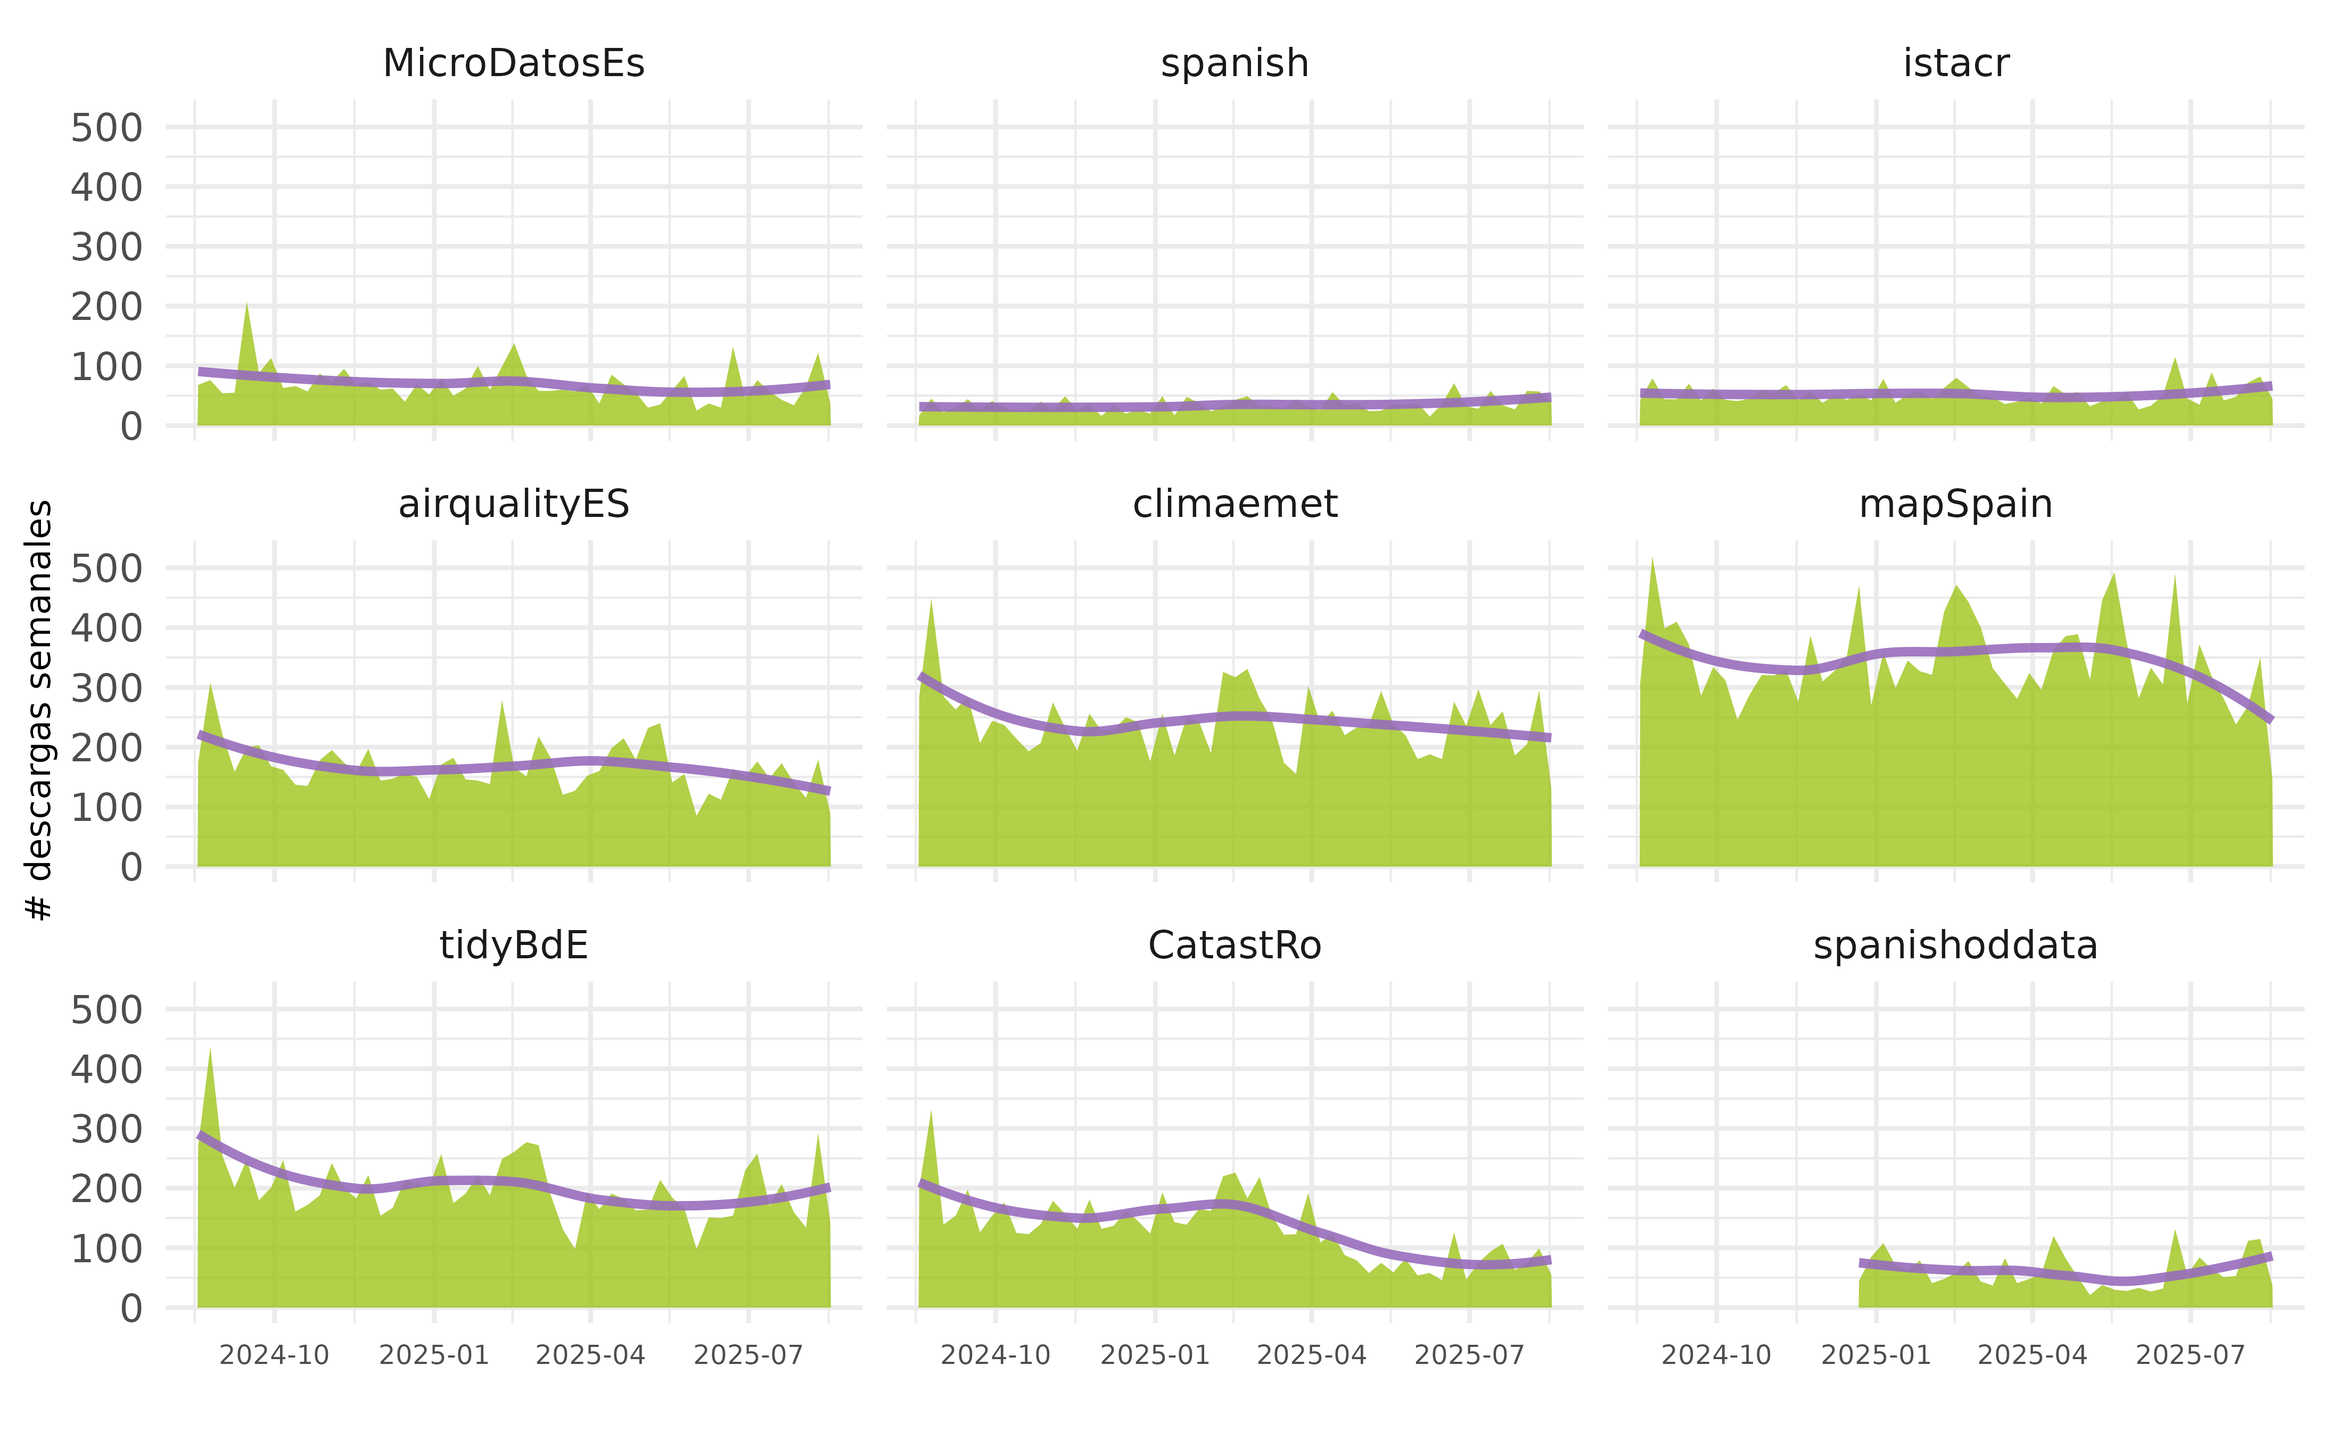
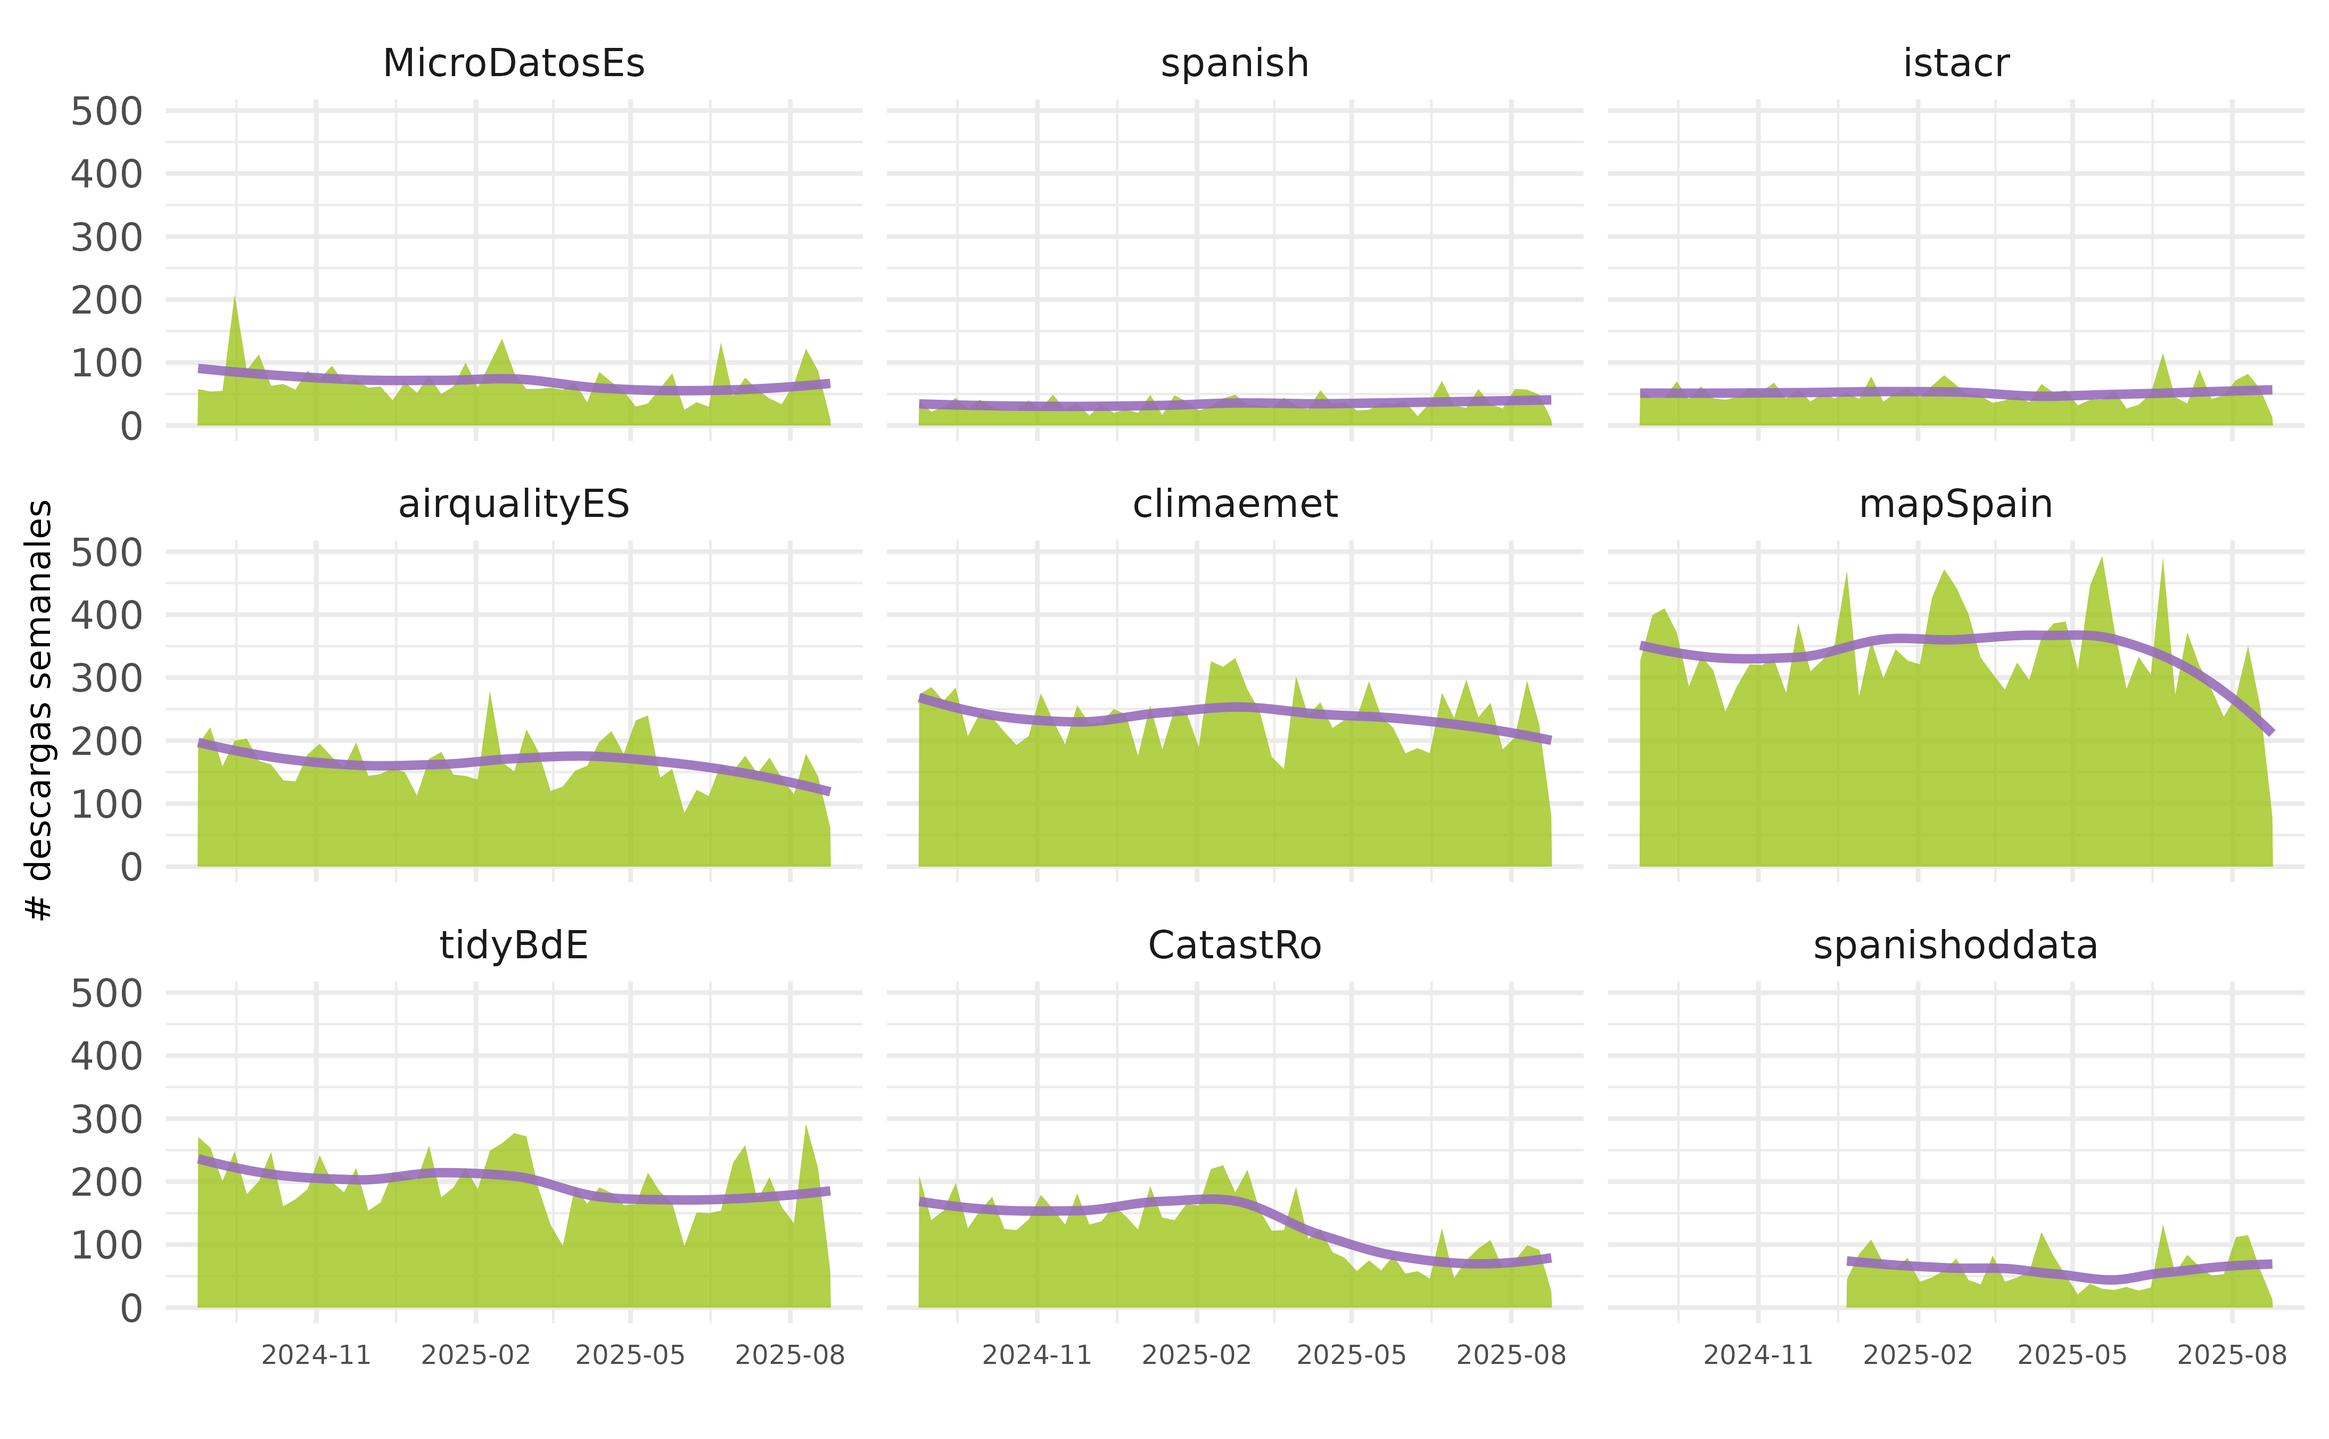
Built site for rostemplate@0.2.0.9000: 9af3454

diff --git a/articles/descargas.html b/articles/descargas.html
@@ -78,7 +78,7 @@
 
     
     
-<p><em>Fecha de actualización: 14 Aug 2025</em></p>
+<p><em>Fecha de actualización: 21 Aug 2025</em></p>
 <div class="section level2">
 <h2 id="en-cran">En CRAN<a class="anchor" aria-label="anchor" href="#en-cran"></a>
 </h2>
@@ -97,7 +97,7 @@
 <h3 id="datos-sobre-descargas">Datos sobre descargas<a class="anchor" aria-label="anchor" href="#datos-sobre-descargas"></a>
 </h3>
 <div class="reactable html-widget html-fill-item" id="cran-dwn" style="width:auto;height:auto;"></div>
-<script type="application/json" data-for="cran-dwn">{"x":{"tag":{"name":"Reactable","attribs":{"data":{"paquete":["mapSpain","climaemet","tidyBdE","airqualityES","CatastRo","MicroDatosEs","istacr","spanish","spanishoddata"],"en CRAN desde":["2020-11-30","2020-07-07","2021-04-08","2020-02-29","2022-02-28","2013-10-22","2019-05-03","2018-01-08","2024-12-18"],"Versión en CRAN":["2024-12-15","2025-06-25","2025-06-22","2020-02-29","2025-03-24","2023-11-24","2022-12-20","2019-05-10","2025-07-29"],"media diaria":[35.2,23.8,22.1,21.1,13.9,12.3,10.8,9.2,9],"último dia":[28,27,32,20,19,13,15,13,18],"última semana":[281,269,279,174,92,105,79,66,75],"último mes":[1269,1070,928,688,380,299,284,210,362],"último año":[18198,12823,10632,8829,7031,3659,2785,1832,2152]},"columns":[{"id":"paquete","name":"paquete","type":"character","minWidth":150,"vAlign":"center","footerStyle":{"fontWeight":"bold"},"cell":[{"name":"div","attribs":{},"children":[{"name":"div","attribs":{"style":{"fontWeight":"bold"}},"children":[{"name":"a","attribs":{"href":"https://CRAN.R-project.org/package=mapSpain","target":"_blank"},"children":["mapSpain"]}]},{"name":"div","attribs":{"style":{"fontSize":"75%"}},"children":[{"name":"img","attribs":{"src":"https://badges.cranchecks.info/worst/mapSpain.svg","alt":"mapSpain"},"children":[]}]}]},{"name":"div","attribs":{},"children":[{"name":"div","attribs":{"style":{"fontWeight":"bold"}},"children":[{"name":"a","attribs":{"href":"https://CRAN.R-project.org/package=climaemet","target":"_blank"},"children":["climaemet"]}]},{"name":"div","attribs":{"style":{"fontSize":"75%"}},"children":[{"name":"img","attribs":{"src":"https://badges.cranchecks.info/worst/climaemet.svg","alt":"climaemet"},"children":[]}]}]},{"name":"div","attribs":{},"children":[{"name":"div","attribs":{"style":{"fontWeight":"bold"}},"children":[{"name":"a","attribs":{"href":"https://CRAN.R-project.org/package=tidyBdE","target":"_blank"},"children":["tidyBdE"]}]},{"name":"div","attribs":{"style":{"fontSize":"75%"}},"children":[{"name":"img","attribs":{"src":"https://badges.cranchecks.info/worst/tidyBdE.svg","alt":"tidyBdE"},"children":[]}]}]},{"name":"div","attribs":{},"children":[{"name":"div","attribs":{"style":{"fontWeight":"bold"}},"children":[{"name":"a","attribs":{"href":"https://CRAN.R-project.org/package=airqualityES","target":"_blank"},"children":["airqualityES"]}]},{"name":"div","attribs":{"style":{"fontSize":"75%"}},"children":[{"name":"img","attribs":{"src":"https://badges.cranchecks.info/worst/airqualityES.svg","alt":"airqualityES"},"children":[]}]}]},{"name":"div","attribs":{},"children":[{"name":"div","attribs":{"style":{"fontWeight":"bold"}},"children":[{"name":"a","attribs":{"href":"https://CRAN.R-project.org/package=CatastRo","target":"_blank"},"children":["CatastRo"]}]},{"name":"div","attribs":{"style":{"fontSize":"75%"}},"children":[{"name":"img","attribs":{"src":"https://badges.cranchecks.info/worst/CatastRo.svg","alt":"CatastRo"},"children":[]}]}]},{"name":"div","attribs":{},"children":[{"name":"div","attribs":{"style":{"fontWeight":"bold"}},"children":[{"name":"a","attribs":{"href":"https://CRAN.R-project.org/package=MicroDatosEs","target":"_blank"},"children":["MicroDatosEs"]}]},{"name":"div","attribs":{"style":{"fontSize":"75%"}},"children":[{"name":"img","attribs":{"src":"https://badges.cranchecks.info/worst/MicroDatosEs.svg","alt":"MicroDatosEs"},"children":[]}]}]},{"name":"div","attribs":{},"children":[{"name":"div","attribs":{"style":{"fontWeight":"bold"}},"children":[{"name":"a","attribs":{"href":"https://CRAN.R-project.org/package=istacr","target":"_blank"},"children":["istacr"]}]},{"name":"div","attribs":{"style":{"fontSize":"75%"}},"children":[{"name":"img","attribs":{"src":"https://badges.cranchecks.info/worst/istacr.svg","alt":"istacr"},"children":[]}]}]},{"name":"div","attribs":{},"children":[{"name":"div","attribs":{"style":{"fontWeight":"bold"}},"children":[{"name":"a","attribs":{"href":"https://CRAN.R-project.org/package=spanish","target":"_blank"},"children":["spanish"]}]},{"name":"div","attribs":{"style":{"fontSize":"75%"}},"children":[{"name":"img","attribs":{"src":"https://badges.cranchecks.info/worst/spanish.svg","alt":"spanish"},"children":[]}]}]},{"name":"div","attribs":{},"children":[{"name":"div","attribs":{"style":{"fontWeight":"bold"}},"children":[{"name":"a","attribs":{"href":"https://CRAN.R-project.org/package=spanishoddata","target":"_blank"},"children":["spanishoddata"]}]},{"name":"div","attribs":{"style":{"fontSize":"75%"}},"children":[{"name":"img","attribs":{"src":"https://badges.cranchecks.info/worst/spanishoddata.svg","alt":"spanishoddata"},"children":[]}]}]}],"rowHeader":true,"align":"left","sticky":"left"},{"id":"en CRAN desde","name":"en CRAN desde","type":"Date","minWidth":150,"vAlign":"center","footerStyle":{"fontWeight":"bold"}},{"id":"Versión en CRAN","name":"Versión en CRAN","type":"Date","minWidth":150,"vAlign":"center","footerStyle":{"fontWeight":"bold"}},{"id":"media diaria","name":"media diaria","type":"numeric","footer":"157,4","minWidth":150,"vAlign":"center","footerStyle":{"fontWeight":"bold"},"format":{"cell":{"separators":true},"aggregated":{"separators":true}}},{"id":"último dia","name":"último dia","type":"numeric","footer":"185","minWidth":150,"vAlign":"center","footerStyle":{"fontWeight":"bold"},"format":{"cell":{"separators":true},"aggregated":{"separators":true}}},{"id":"última semana","name":"última semana","type":"numeric","footer":"1.420","minWidth":150,"vAlign":"center","footerStyle":{"fontWeight":"bold"},"format":{"cell":{"separators":true},"aggregated":{"separators":true}}},{"id":"último mes","name":"último mes","type":"numeric","footer":"5.490","minWidth":150,"vAlign":"center","footerStyle":{"fontWeight":"bold"},"format":{"cell":{"separators":true},"aggregated":{"separators":true}}},{"id":"último año","name":"último año","type":"numeric","footer":"67.941","minWidth":150,"vAlign":"center","footerStyle":{"fontWeight":"bold"},"format":{"cell":{"separators":true},"aggregated":{"separators":true}}}],"filterable":true,"searchable":true,"showPageSizeOptions":true,"paginationType":"jump","striped":true,"language":{"sortLabel":"Ordena {name}","filterPlaceholder":"","filterLabel":"Filtro {name}","searchPlaceholder":"Búsqueda","searchLabel":"Búsqueda","noData":"Sin resultados","pageNext":"Siguiente","pagePrevious":"Anterior","pageNumbers":"{page} de {pages}","pageInfo":"{rowStart}–{rowEnd} de {rows} registros","pageSizeOptions":"Mostrando {rows}","pageNextLabel":"Siguiente página","pagePreviousLabel":"Página anterior","pageNumberLabel":"Página {page}","pageJumpLabel":"Ir a página","pageSizeOptionsLabel":"Registros por página"},"elementId":"cran-dwn","dataKey":"e9382e503182ebaa4c94a711f33608e6"},"children":[]},"class":"reactR_markup"},"evals":[],"jsHooks":[]}</script>
+<script type="application/json" data-for="cran-dwn">{"x":{"tag":{"name":"Reactable","attribs":{"data":{"paquete":["mapSpain","climaemet","tidyBdE","airqualityES","CatastRo","MicroDatosEs","istacr","spanish","spanishoddata"],"en CRAN desde":["2020-11-30","2020-07-07","2021-04-08","2020-02-29","2022-02-28","2013-10-22","2019-05-03","2018-01-08","2024-12-18"],"Versión en CRAN":["2024-12-15","2025-06-25","2025-06-22","2020-02-29","2025-03-24","2023-11-24","2022-12-20","2019-05-10","2025-07-29"],"media diaria":[35.2,23.8,22.1,21.1,13.9,12.3,10.8,9.2,8.9],"último dia":[52,66,49,52,10,2,7,3,6],"última semana":[170,153,123,109,40,44,19,14,26],"último mes":[1185,986,862,636,352,317,268,198,349],"último año":[17884,12539,10331,8657,6773,3632,2747,1828,2188]},"columns":[{"id":"paquete","name":"paquete","type":"character","minWidth":150,"vAlign":"center","footerStyle":{"fontWeight":"bold"},"cell":[{"name":"div","attribs":{},"children":[{"name":"div","attribs":{"style":{"fontWeight":"bold"}},"children":[{"name":"a","attribs":{"href":"https://CRAN.R-project.org/package=mapSpain","target":"_blank"},"children":["mapSpain"]}]},{"name":"div","attribs":{"style":{"fontSize":"75%"}},"children":[{"name":"img","attribs":{"src":"https://badges.cranchecks.info/worst/mapSpain.svg","alt":"mapSpain"},"children":[]}]}]},{"name":"div","attribs":{},"children":[{"name":"div","attribs":{"style":{"fontWeight":"bold"}},"children":[{"name":"a","attribs":{"href":"https://CRAN.R-project.org/package=climaemet","target":"_blank"},"children":["climaemet"]}]},{"name":"div","attribs":{"style":{"fontSize":"75%"}},"children":[{"name":"img","attribs":{"src":"https://badges.cranchecks.info/worst/climaemet.svg","alt":"climaemet"},"children":[]}]}]},{"name":"div","attribs":{},"children":[{"name":"div","attribs":{"style":{"fontWeight":"bold"}},"children":[{"name":"a","attribs":{"href":"https://CRAN.R-project.org/package=tidyBdE","target":"_blank"},"children":["tidyBdE"]}]},{"name":"div","attribs":{"style":{"fontSize":"75%"}},"children":[{"name":"img","attribs":{"src":"https://badges.cranchecks.info/worst/tidyBdE.svg","alt":"tidyBdE"},"children":[]}]}]},{"name":"div","attribs":{},"children":[{"name":"div","attribs":{"style":{"fontWeight":"bold"}},"children":[{"name":"a","attribs":{"href":"https://CRAN.R-project.org/package=airqualityES","target":"_blank"},"children":["airqualityES"]}]},{"name":"div","attribs":{"style":{"fontSize":"75%"}},"children":[{"name":"img","attribs":{"src":"https://badges.cranchecks.info/worst/airqualityES.svg","alt":"airqualityES"},"children":[]}]}]},{"name":"div","attribs":{},"children":[{"name":"div","attribs":{"style":{"fontWeight":"bold"}},"children":[{"name":"a","attribs":{"href":"https://CRAN.R-project.org/package=CatastRo","target":"_blank"},"children":["CatastRo"]}]},{"name":"div","attribs":{"style":{"fontSize":"75%"}},"children":[{"name":"img","attribs":{"src":"https://badges.cranchecks.info/worst/CatastRo.svg","alt":"CatastRo"},"children":[]}]}]},{"name":"div","attribs":{},"children":[{"name":"div","attribs":{"style":{"fontWeight":"bold"}},"children":[{"name":"a","attribs":{"href":"https://CRAN.R-project.org/package=MicroDatosEs","target":"_blank"},"children":["MicroDatosEs"]}]},{"name":"div","attribs":{"style":{"fontSize":"75%"}},"children":[{"name":"img","attribs":{"src":"https://badges.cranchecks.info/worst/MicroDatosEs.svg","alt":"MicroDatosEs"},"children":[]}]}]},{"name":"div","attribs":{},"children":[{"name":"div","attribs":{"style":{"fontWeight":"bold"}},"children":[{"name":"a","attribs":{"href":"https://CRAN.R-project.org/package=istacr","target":"_blank"},"children":["istacr"]}]},{"name":"div","attribs":{"style":{"fontSize":"75%"}},"children":[{"name":"img","attribs":{"src":"https://badges.cranchecks.info/worst/istacr.svg","alt":"istacr"},"children":[]}]}]},{"name":"div","attribs":{},"children":[{"name":"div","attribs":{"style":{"fontWeight":"bold"}},"children":[{"name":"a","attribs":{"href":"https://CRAN.R-project.org/package=spanish","target":"_blank"},"children":["spanish"]}]},{"name":"div","attribs":{"style":{"fontSize":"75%"}},"children":[{"name":"img","attribs":{"src":"https://badges.cranchecks.info/worst/spanish.svg","alt":"spanish"},"children":[]}]}]},{"name":"div","attribs":{},"children":[{"name":"div","attribs":{"style":{"fontWeight":"bold"}},"children":[{"name":"a","attribs":{"href":"https://CRAN.R-project.org/package=spanishoddata","target":"_blank"},"children":["spanishoddata"]}]},{"name":"div","attribs":{"style":{"fontSize":"75%"}},"children":[{"name":"img","attribs":{"src":"https://badges.cranchecks.info/worst/spanishoddata.svg","alt":"spanishoddata"},"children":[]}]}]}],"rowHeader":true,"align":"left","sticky":"left"},{"id":"en CRAN desde","name":"en CRAN desde","type":"Date","minWidth":150,"vAlign":"center","footerStyle":{"fontWeight":"bold"}},{"id":"Versión en CRAN","name":"Versión en CRAN","type":"Date","minWidth":150,"vAlign":"center","footerStyle":{"fontWeight":"bold"}},{"id":"media diaria","name":"media diaria","type":"numeric","footer":"157,3","minWidth":150,"vAlign":"center","footerStyle":{"fontWeight":"bold"},"format":{"cell":{"separators":true},"aggregated":{"separators":true}}},{"id":"último dia","name":"último dia","type":"numeric","footer":"247","minWidth":150,"vAlign":"center","footerStyle":{"fontWeight":"bold"},"format":{"cell":{"separators":true},"aggregated":{"separators":true}}},{"id":"última semana","name":"última semana","type":"numeric","footer":"698","minWidth":150,"vAlign":"center","footerStyle":{"fontWeight":"bold"},"format":{"cell":{"separators":true},"aggregated":{"separators":true}}},{"id":"último mes","name":"último mes","type":"numeric","footer":"5.153","minWidth":150,"vAlign":"center","footerStyle":{"fontWeight":"bold"},"format":{"cell":{"separators":true},"aggregated":{"separators":true}}},{"id":"último año","name":"último año","type":"numeric","footer":"66.579","minWidth":150,"vAlign":"center","footerStyle":{"fontWeight":"bold"},"format":{"cell":{"separators":true},"aggregated":{"separators":true}}}],"filterable":true,"searchable":true,"showPageSizeOptions":true,"paginationType":"jump","striped":true,"language":{"sortLabel":"Ordena {name}","filterPlaceholder":"","filterLabel":"Filtro {name}","searchPlaceholder":"Búsqueda","searchLabel":"Búsqueda","noData":"Sin resultados","pageNext":"Siguiente","pagePrevious":"Anterior","pageNumbers":"{page} de {pages}","pageInfo":"{rowStart}–{rowEnd} de {rows} registros","pageSizeOptions":"Mostrando {rows}","pageNextLabel":"Siguiente página","pagePreviousLabel":"Página anterior","pageNumberLabel":"Página {page}","pageJumpLabel":"Ir a página","pageSizeOptionsLabel":"Registros por página"},"elementId":"cran-dwn","dataKey":"b5210e2b57336011fc8f0dbff5f26b32"},"children":[]},"class":"reactR_markup"},"evals":[],"jsHooks":[]}</script>
 </div>
 </div>
 <div class="section level2">
